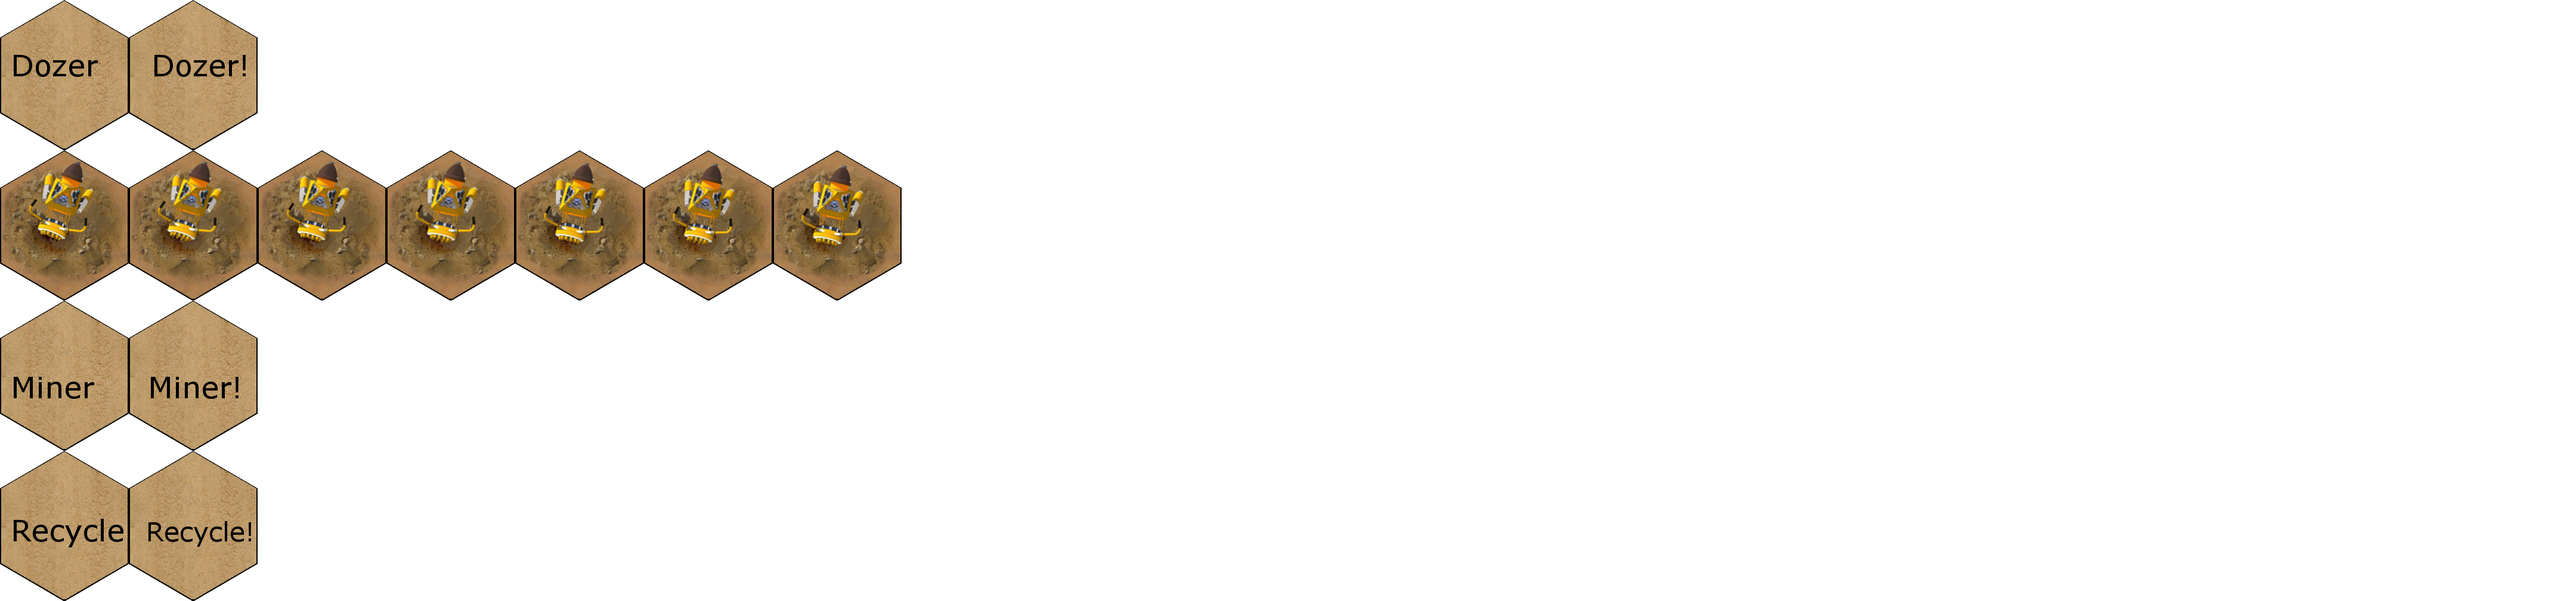
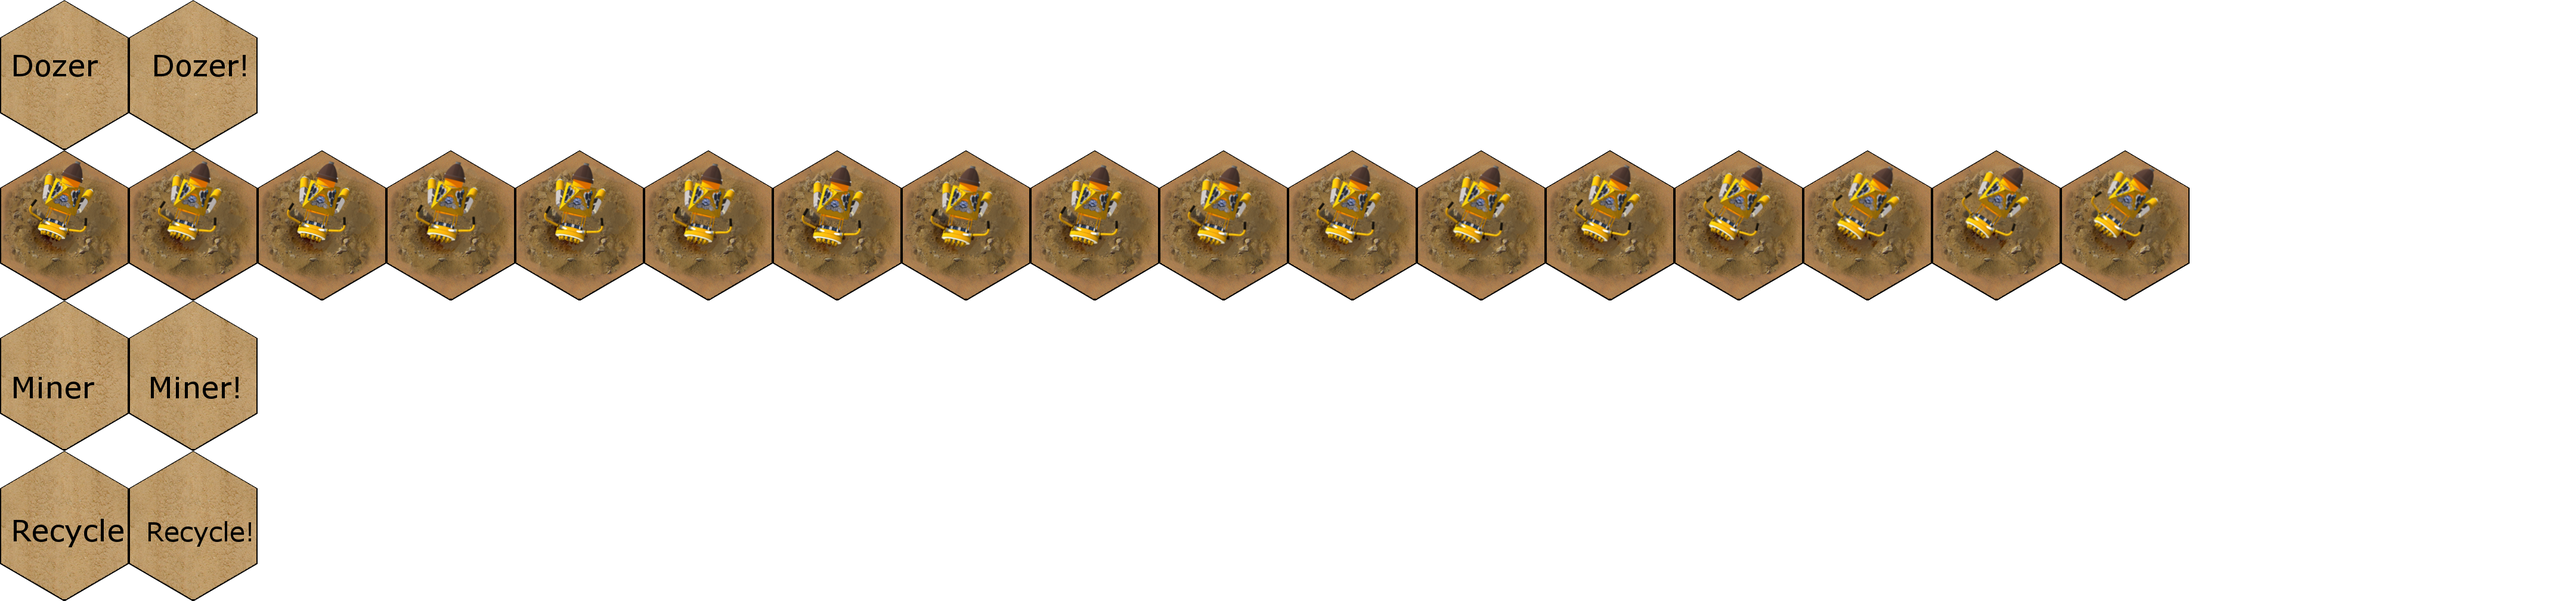
added to tilesheet

Changed region(s): [[0.3438, 0.246, 0.875, 0.4921]]

diff --git a/Prototypes/MapCanvas/MapCanvas.js b/Prototypes/MapCanvas/MapCanvas.js
@@ -855,7 +855,7 @@ function resize(e) {
  */
 
 function mainLoop() {
-    var N = 6; //Number of animation frames from 0 e.g. N=1 is the same as having two images which swap...
+    var N = 16; //Number of animation frames from 0 e.g. N=1 is the same as having two images which swap...
     //var augment = true;
     if(Game.augment && Game.animate < N){
         Game.animate +=1;
@@ -864,25 +864,7 @@ function mainLoop() {
     }else{
         Game.augment ? Game.augment = false : Game.augment = true;
     }
-    /*
-    if(Game.augment){
-        Game.animate += 1;
-        //if(Game.animate === N){
-            //augment = false;
-            console.log("here we go" + augment + Game.animate);
-        //}
-    } else {
-        Game.animate -= 1;
-        //if(Game.animate === 0){
-            //augment = true;
-        //}
-    }
-    if(Game.animate == 0){
-        augment = true;
-    } else if(Game.animate == N){
-        augment = false;
-    }*/
-    //setTimeout(mainLoop, 70); //set the framerate here
+    //setTimeout(mainLoop, 200); //set the framerate here
 }
 
 /**
